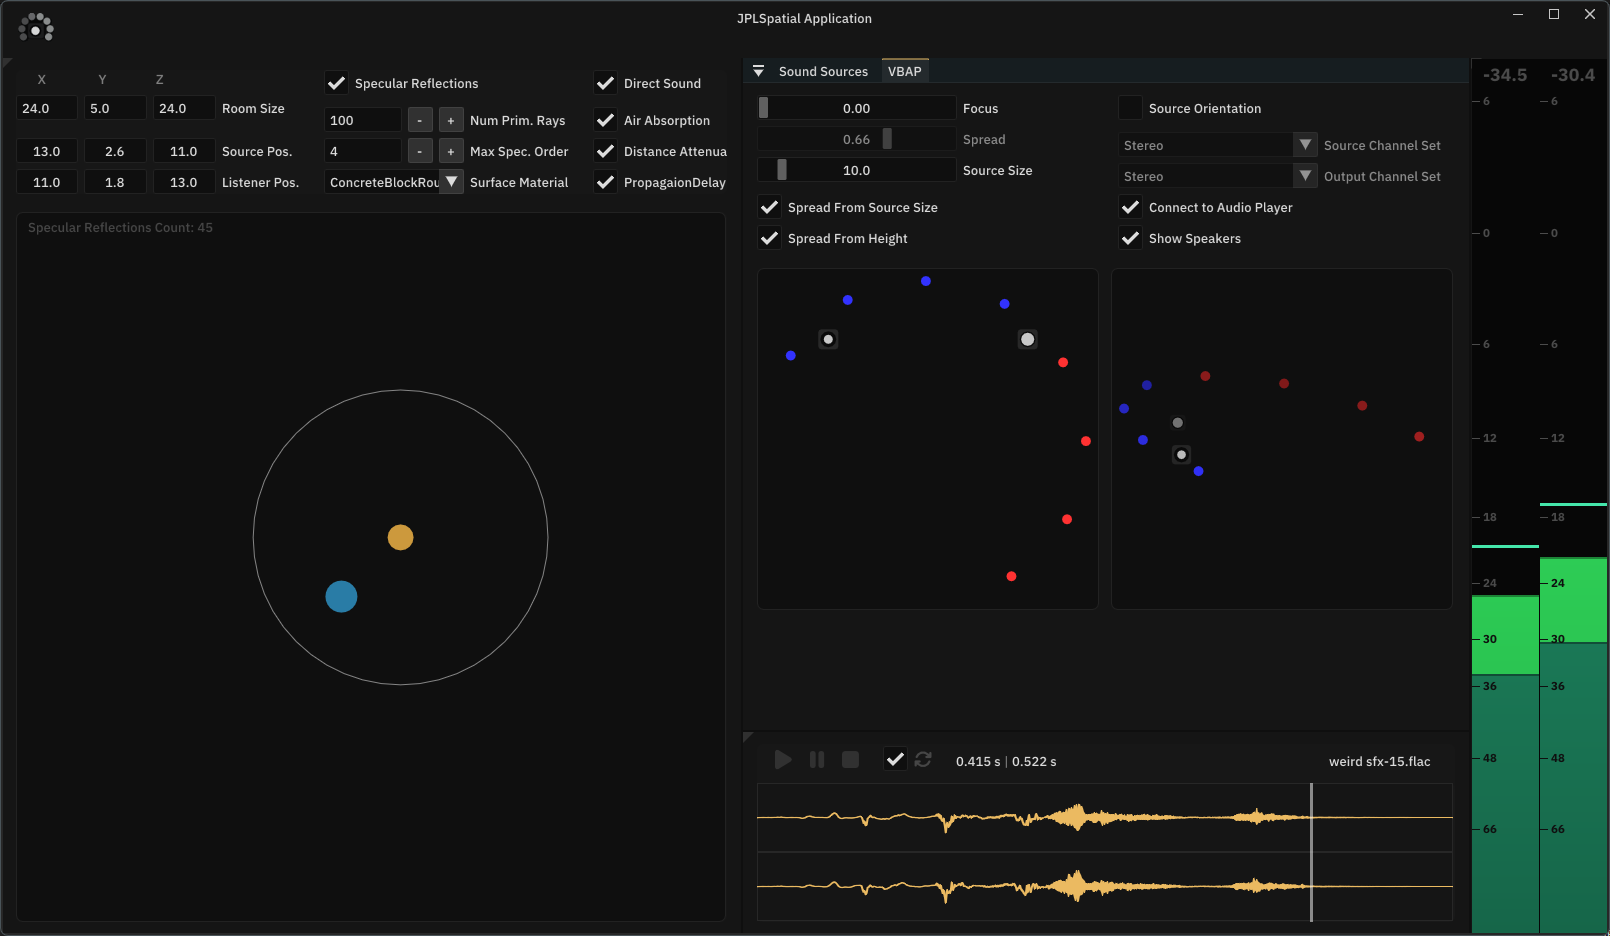
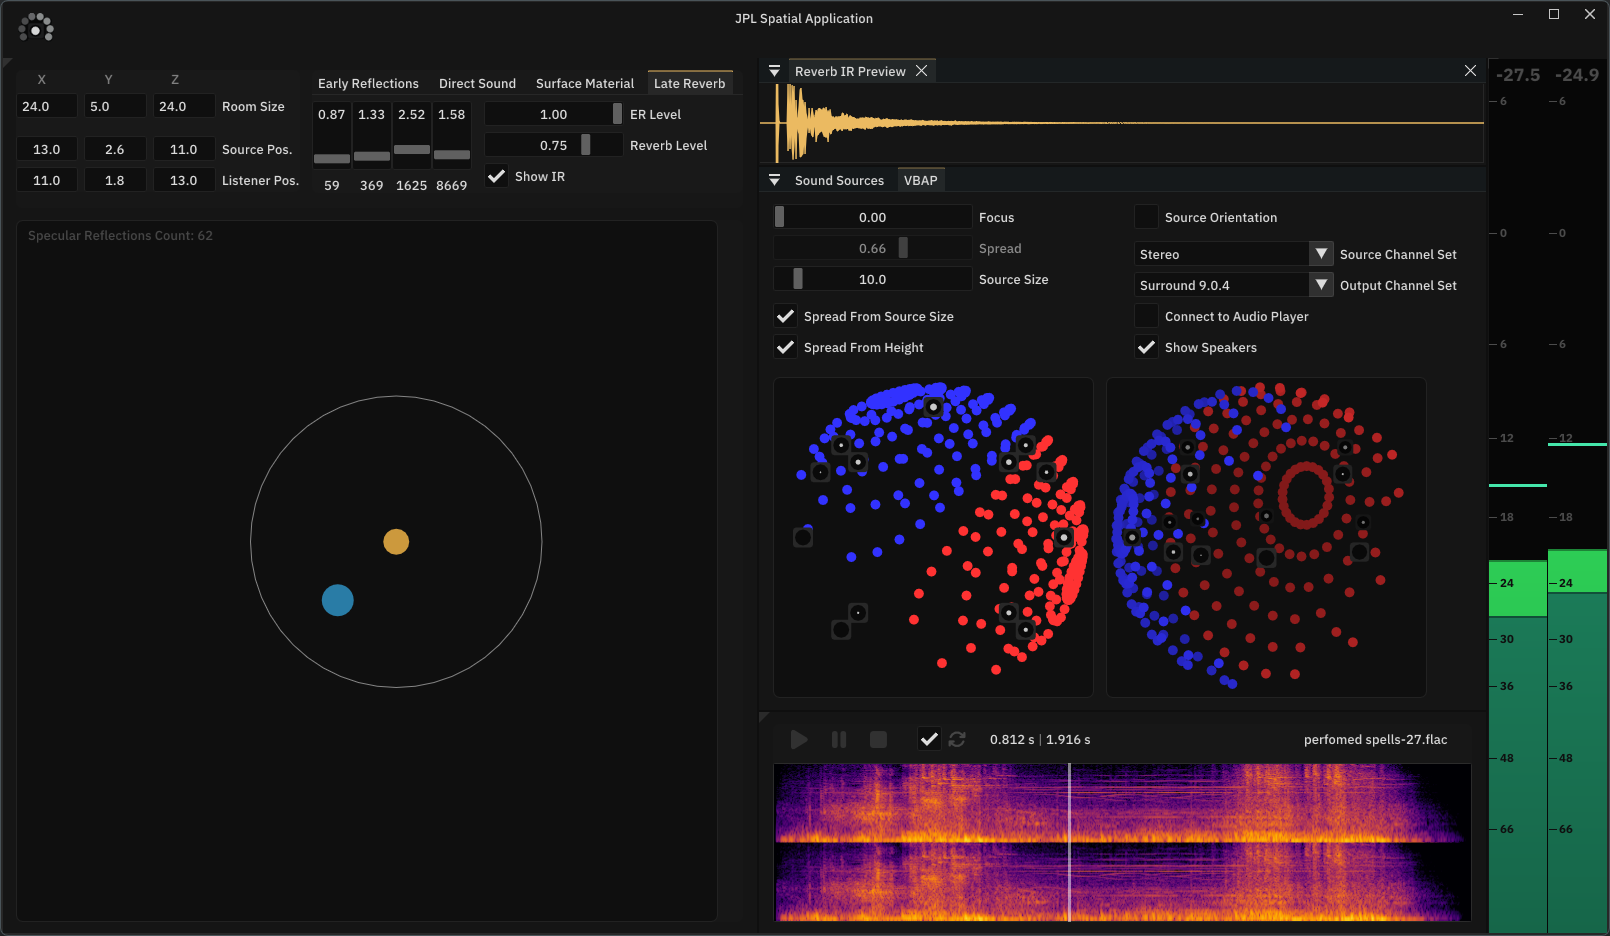
Updated screenshot and README

diff --git a/README.md b/README.md
@@ -4,14 +4,16 @@ Application demonstrating some of the capabilities of [JPL Spatial](https://gith
 
 ![JPL Spatial Application GUI](assets/screenshots/JPLSpatialApplicationGUI.png)
 
-The GUI is drawn using [Dear ImGui](https://github.com/ocornut/imgui) library with a custom framework on top.
+The GUI is drawn using [Dear ImGui](https://github.com/ocornut/imgui) library with custom framework on top.
 
 ## JPL Spatial Features
 - **Direct Sound** (DS) Propagation & Spatialization
-- **Ray Traced Early** (*Specular*) **Reflections** (ERs) *(experimental)*
+- **Ray Traced Early** (*Specular*) **Reflections** (ERs)
+- **Late Reverberation** based on room size, volume, materials and **Air Absorption**
 ---
 - Pannign of **Direct Sound** source is handled by **MDAP** (multiple directions)
 - **Early Reflections** are traced using **Image Source** method and panned by **VBAP** (single directoin per ER)
+- **Late Reverberation** is rendered by **Filter Delay Network** (FDN) **Reverb** with **4-band Crossover Decay Filters**
 - Propagation delay for both, DS and ERs, is rendered by **Interpolating Delay Lines**
 - Propagation filtering (ER *surface absorption*, DS/ER *air absorption*) is processed by **4-band Crossover Filters**
 - *Inverse law* distance attenuation is applied to both DS and ERs
@@ -35,10 +37,14 @@ The GUI is drawn using [Dear ImGui](https://github.com/ocornut/imgui) library wi
 - **Sound Source** can be selected in the **"Sound Sources"** tab/window
 	- a few audio files are available in the repository (and in the release)
 	- *sound source directory* can be selected to play different files
-- **Audio Player** has waveform view and all the expected playback controlls
+- **Audio Player** has and all the expected playback controlls
+- **Audio Preview** attached to **Audio Player** to visualize source audio as *spectrogram* or *waveform*
 - **Loudness Meter** displays *Peak* and *RMS* loundess of the application output; the big number at the top displays current *RMS* value
 
-### Room / Environment Controls
+> [!TIP]
+> You can change display mode of **Audio Preview** in the *Right-Click* context menu, which can also be opened by clicking the settigns button that apperas on hover.
+
+### Room / Environment Parameters
 
 **Room** *(everything is in 3 dimensions)*:
 - Room size
@@ -46,15 +52,34 @@ The GUI is drawn using [Dear ImGui](https://github.com/ocornut/imgui) library wi
 - Listener position
 
 **Early Reflections** (aka **Specular Reflections**, not that *early* at high order):
-- **Max Reflection Order** - maximum allowed reflection order to trace
-- **Surface Material** - changes the material absorption applied to reflected ER paths
 - **Number of Primary Rays** - mainly needed to balance performace vs source detection possiblility *(for a simple shoe-box room, its 6 surfaces can easily be detected with a small number of rays)*
+- **Max Reflection Order** - maximum allowed reflection order to trace
+
+**Direct Sound**
+- Options to Enable/Disable: **Air Absorpiton**, **Distance Attenuation**, **Propagation Delay** (also responsible for *doppler effect*)
+
+**Surface Material**
+
+- Changes material absorption applied to reflected ER paths, as well as estimation of *Reverberation Time*.
+- Sliders display absorption coefficients of the currently selected material in 4 frequency bands
+- **Custom Material** can be selected from the list, which enables manual adjustment of the coefficient sliders
+
+**Late Reverb**:
+- **Reverberation Time** (RT60) in 4 frequency bands reflects the last estimation based on **Room** parameters, can also be manually set by adjusting corresponding sliders
+- **ER Level** controls the level of **Early Reflections** that goes to the main output
+- **Reverb Level** controll the level of the **Late Reverb** that goes to the main output
+- **Show IR** button opens up **Audio Preview** of the reverb *Impulse Response*
 
 > [!TIP]
->**Spatialziation Effects** can be enabled/disabled individuslly for the **Direct Sound** to hear the effect with/without them.
+>**Spatialziation Effects** can be enabled/disabled individually for the **Direct Sound** to hear the effect with/without them.
 >
->**Specular Reflections** and **Directo Sound** can also be muted individually.
+>**Specular Reflections** and **Direct Sound** can also be muted individually.
 
+> [!NOTE] **Routing**
+> - **Direct Sound** is routed to **Early Reflections**
+> - **Early Reflections** are routed to **Late Reverb** after all the propagation attenuations (*distance*, *air absorption*, *material absorption* etc.)
+>
+> If **ERs** are disabled, **Late Reverb** will also be silent.
 
 ## Supported platforms
 - Currently Windows only